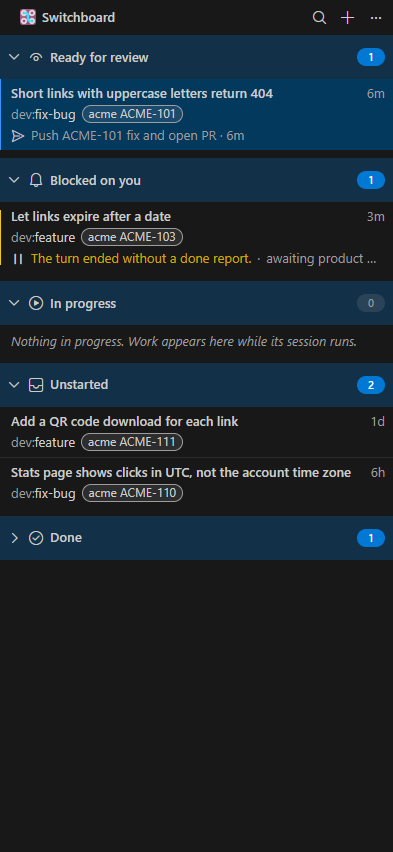
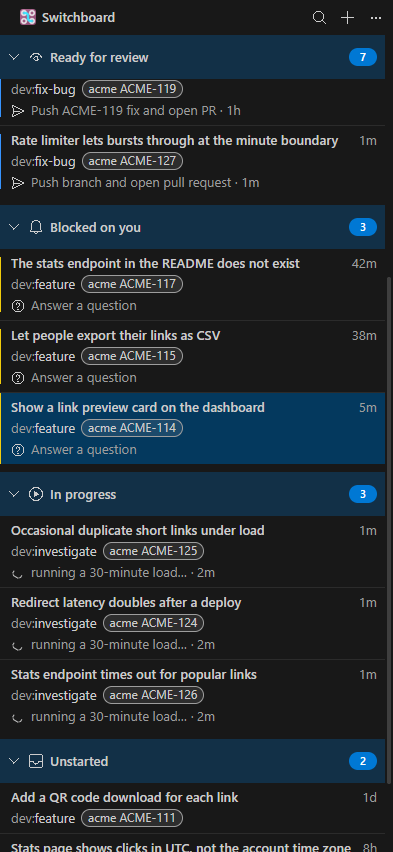
docs: rework the README around one page for every agent work item
- Leads with the demo story: everything for a ticket in one place, your own playbooks and skills, any device

- New screenshots from the demo hub; the example playbooks call /fix-bug and /plan-feature skills

diff --git a/README.md b/README.md
@@ -1,45 +1,46 @@
 # Switchboard
 
-**Your assigned tickets, worked by coding agents while you review.**
+**One page for every ticket your coding agents are working on.**
 
-Switchboard watches the tickets assigned to you, decides what each one needs, and starts a Claude Code or Codex session to do it. Its web page shows what needs you: a fix ready to approve, a question to answer, a draft to send. No tracker yet? Type a prompt into it and it runs the same way.
+Switchboard picks up the tickets assigned to you, starts a Claude Code or Codex session on each with your own playbooks and skills, and puts everything about every ticket on one page: the ticket, the agent's report, the diff, the live session, and anything the agent made for you. It runs on your machine, and you can use it from your phone or tablet too.
 
-![Switchboard's web page: a plan's open question as a card, with the work items on the left](docs/images/question-card.png)
+![A feature's plan and clickable mockup open as tabs beside its question card, with every work item on the left](docs/images/feature-mockup-and-question.png)
 
 ## Why
 
-Every assigned issue, support case or review means opening a terminal, finding the right branch, writing the prompt, waiting, and coming back to check. Multiply that by a dozen tickets a day and you spend more time running agents than reading what they did.
+Developers used to work on one item at a time: open it in VS Code, do the work in that window, ship it, move on. Agents changed that. With ten work items in progress, you either open ten editor windows, each taking memory and CPU that the agents could use, or you lose track of which session has finished, which is stuck and which has been waiting an hour for your answer. And for each one you're still hunting through browser tabs and typing issue and PR numbers.
 
-Switchboard does the running. You do the deciding.
+Switchboard started as a way to switch between those VS Code windows, which is where the name comes from. Now it stands on its own: one light page for all of your work, where you move between tickets without losing your place.
 
 ## How it's different
 
-- **A to-do list that fills itself.** Session managers run the sessions you start. Switchboard's sidebar fills itself from your sources, such as the GitHub issues assigned to you, and shows each work item's current status as it passes between the agent and you, until it lands in Done.
-- **Playbooks, chosen by triage.** Each kind of work is a playbook: a prompt, or a single slash command for one of your skills, plus rules such as whether it may start on its own. Triage reads the ticket and picks the playbook, so a bug gets fixed, a question gets a drafted answer and a review request gets a review.
-- **Your skills do the work.** Cloud agents run their own agent in their sandbox on a fixed issue-to-PR path. Switchboard runs your own Claude Code or Codex on your machine, with your skills, hooks and sign-ins, and stays out of the way: it is the control and observability layer that starts sessions, watches them and shows you where they stand.
-- **Your machine is the server.** One developer, one machine: no team server, no vendor sandbox. You can still reach it from your phone or any of your other devices, over Tailscale.
+- **Everything for a ticket, in one place.** Session managers arrange terminal panes. Switchboard puts the ticket, its status, the agent's reports, mockups and other artifacts, the worktree's diff, its history and the live session side by side, so you never type an issue number to find your work.
+- **A to-do list that fills itself.** The list fills itself from your sources, such as the GitHub issues assigned to you, and shows each work item's status as it passes between the agent and you, until it lands in Done.
+- **Your playbooks, your skills.** Each kind of work is a playbook: a prompt, or a single slash command for one of your own skills, plus rules such as whether it may start on its own. Triage reads each ticket and picks the playbook, so a bug gets fixed, a question gets a drafted answer and a review request gets a review. Switchboard only starts the sessions and shows you where they stand.
+- **Your machine, any device.** Sessions run on your machine with your own Claude Code or Codex, skills, hooks and sign-ins. No team server or vendor sandbox, and no remote desktop: the same page works on your phone and tablet, laid out for each.
 
 ## A ticket's day
 
-1. **Assigned.** A bug, *Short links with uppercase letters return 404*, is assigned to you.
-2. **Triaged.** A one-shot classifier reads the ticket and picks a playbook: `dev:fix-bug`.
+1. **Assigned.** A bug, *POST /links with invalid JSON never responds*, is assigned to you.
+2. **Triaged.** A one-shot classifier reads the ticket and picks a playbook: `dev:fix-bug`, which runs your `/fix-bug` skill. In this example, that skill tests and commits the fix, then asks for approval to push.
 3. **Set up.** A setup session creates a worktree and a branch for the ticket.
 4. **Worked.** The task session writes a failing test, fixes the bug, runs the tests and commits. It doesn't push.
 5. **Your turn.** The row moves to **Ready for review**. You read the agent's summary and the diff side by side, then press **Approve**, and Switchboard runs the step the session asked approval for: push the branch and open the pull request.
 
 ![The fix's summary beside its diff, with Approve in the header](docs/images/review-and-changes.png)
 
-Meanwhile a feature request waits for you to press Start, and once its plan is written, the session asks you its product questions as a card you can answer in two taps, even from your phone.
+Meanwhile a feature request waits for you to press Start. Once it has a plan, the session asks only the questions it can't settle on its own, as a card you answer by tapping or speaking, and can keep working on the rest while you decide.
 
 ## Highlights
 
 - **Starts work on its own, when you let it.** You choose which playbooks start right after triage. Let the ones that only read, draft or commit locally start themselves, and have the ones that push, post or comment wait for your Start, or stop for your Approve before that step.
 - **One list of what needs you.** Work items fall into Ready for review, Blocked on you, In progress, Unstarted, Snoozed and Done. A failed or blocked item says why.
 - **Real sessions, never cut off.** Each Claude Code session runs in a terminal Switchboard holds, so it survives a closed browser and a hub restart. Open its console on the page at any time. A session that hits a usage limit waits for the reset and carries on, and says so if it can't.
-- **Questions as cards.** A session asks numbered questions with lettered options, and you answer them one at a time, by tap or by voice.
-- **Artifacts and diffs beside the conversation.** Plans, reports and diagrams open as tabs next to the chat, with the worktree's changes in a Changes tab.
+- **Questions as cards.** A session asks numbered questions with lettered options, and you answer them one at a time, by tap or by voice. The work item shows it's waiting on your answer.
+- **Artifacts and diffs beside the conversation.** Plans, reviews, clickable HTML mockups and demo videos that a session shares as artifacts open as tabs next to the chat, with the worktree's changes in a Changes tab and the session's live terminal in a Console tab.
 - **Your phone is a remote.** After a one-time Tailscale Serve setup and pairing, open the page on your phone and answer, approve or start work from anywhere.
-- **Talk to it.** Optional voice: dictate to a session, hear its replies read aloud, and give sessions personas with their own voices.
+- **Talk to it.** Optional voice: dictate to a session, hear its replies read aloud, answer question cards out loud, and give sessions personas with their own voices.
+- **Start without a ticket.** Start a session from a prompt in a folder you choose, and it joins the same list.
 - **Pick from a queue.** A source can have a pool of unclaimed tickets, each triaged in advance, for you to pick from.
 - **GitHub project boards.** A browser extension marks the cards Switchboard is working on with their status and playbook, and adds Snooze and Open in Switchboard.
 - **Schedules.** Run a playbook every morning, every Monday or on demand, with no ticket at all.
@@ -59,6 +60,8 @@ Meanwhile a feature request waits for you to press Start, and once its plan is w
 - **Local first.** The hub, its database and your settings live on your machine. There is no Switchboard account or hosted service; your agent providers and ticket sources keep their own accounts.
 
 ## Bring your own playbooks
+
+![A playbook in Settings: it starts on its own and runs the /fix-bug skill](docs/images/settings-playbook.png)
 
 Switchboard ships with no playbooks. You describe your work in a `settings.json` that you can keep in git: where tickets come from, how to triage them, and what each kind of work should do. A playbook's template can be a full prompt or a single slash command that runs one of your skills.
 
@@ -103,7 +106,7 @@ A minimal setup for one GitHub project:
         "worktree"
       ],
       "approvalSends": true,
-      "template": "Fix {{ticket.ref}}: {{ticket.title}}\n\n{{ticket.context}}\n\nWrite a failing test, fix it, run the tests and commit. Don't push: report approval with the prompt \"Push the branch and open a pull request.\""
+      "template": "/fix-bug {{ticket.ref}}: {{ticket.title}}\n\n{{ticket.context}}"
     },
     "dev:feature": {
       "description": "New behavior is requested: plan it and ask the open product questions first.",
@@ -114,7 +117,7 @@ A minimal setup for one GitHub project:
         "approval",
         "worktree"
       ],
-      "template": "Plan {{ticket.ref}}: {{ticket.title}}\n\n{{ticket.context}}\n\nWrite a short plan as an artifact and ask the open product questions. After my answers, build it, commit, and report approval with the prompt \"Push the branch and open a pull request.\"",
+      "template": "/plan-feature {{ticket.ref}}: {{ticket.title}}\n\n{{ticket.context}}",
       "approvalSends": true
     },
     "dev:other": {
@@ -130,7 +133,7 @@ A minimal setup for one GitHub project:
 }
 ```
 
-The triage playbook picks among the task playbooks in the source's `namespace` by their descriptions, and `dev:other` catches anything unclear without starting. This source lists the open issues on project 1 that are assigned to `my-login` with status Todo or In Progress; replace the placeholders with your own checkout, login, project and status names. Edit the file by hand or in the web page's Settings; the hub reloads it either way. Sources for GitHub and Zoho Desk are built in, and a plugin module can add any other tracker.
+`/fix-bug` and `/plan-feature` are your own Claude Code skills, such as ones in the repository's `.claude/skills`; Switchboard only sends the command. The triage playbook picks among the task playbooks in the source's `namespace` by their descriptions, and `dev:other` catches anything unclear without starting. This source lists the open issues on project 1 that are assigned to `my-login` with status Todo or In Progress; replace the placeholders with your own checkout, login, project and status names. Edit the file by hand or in the web page's Settings; the hub reloads it either way. Sources for GitHub and Zoho Desk are built in, and a plugin module can add any other tracker.
 
 ## Get started
 
@@ -171,3 +174,7 @@ Voice needs local models and a speech API key; [docs/install-linux.md](docs/inst
 | `npm run install-local` | Rebuild and install; the running hub moves to the new build once it is quiet |
 
 [AGENTS.md](AGENTS.md) holds the workflow, wording and commit rules.
+
+## License
+
+[MIT](LICENSE)
